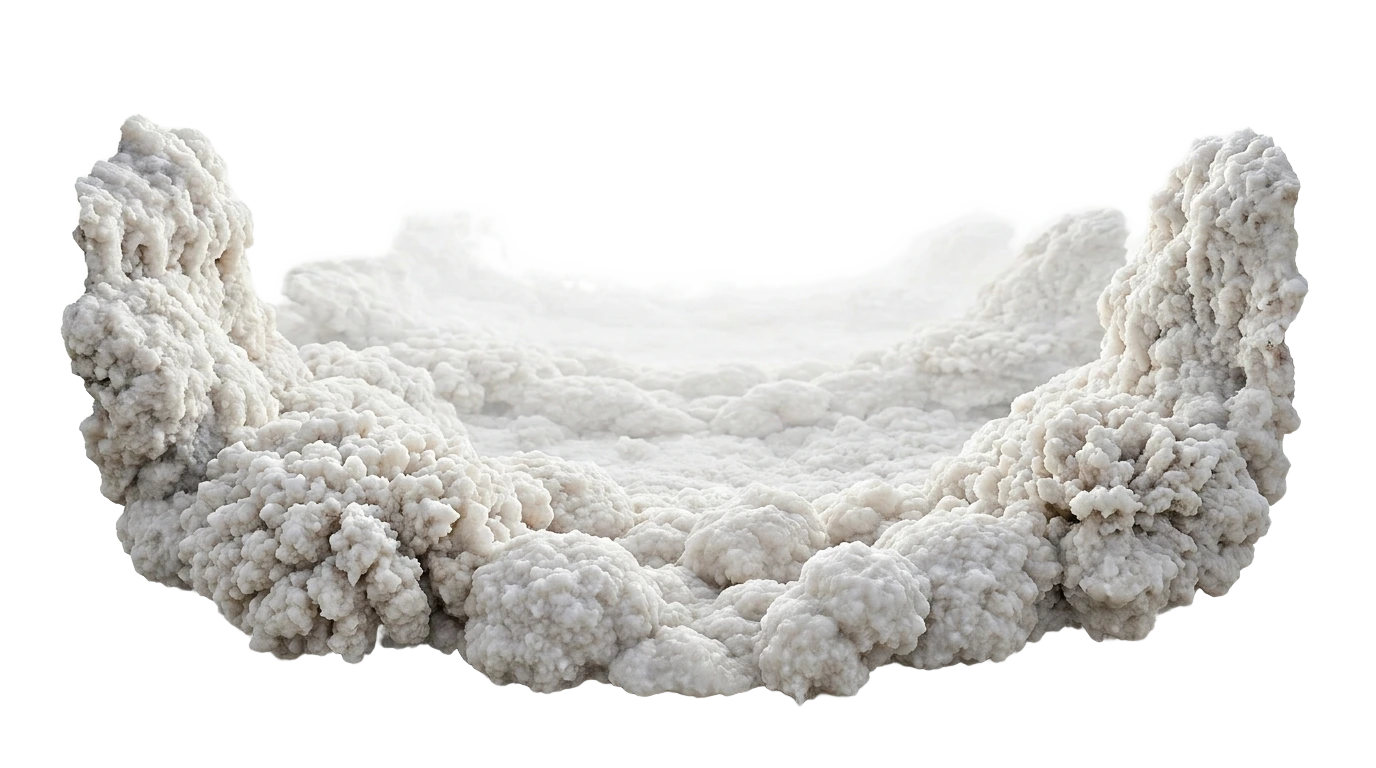
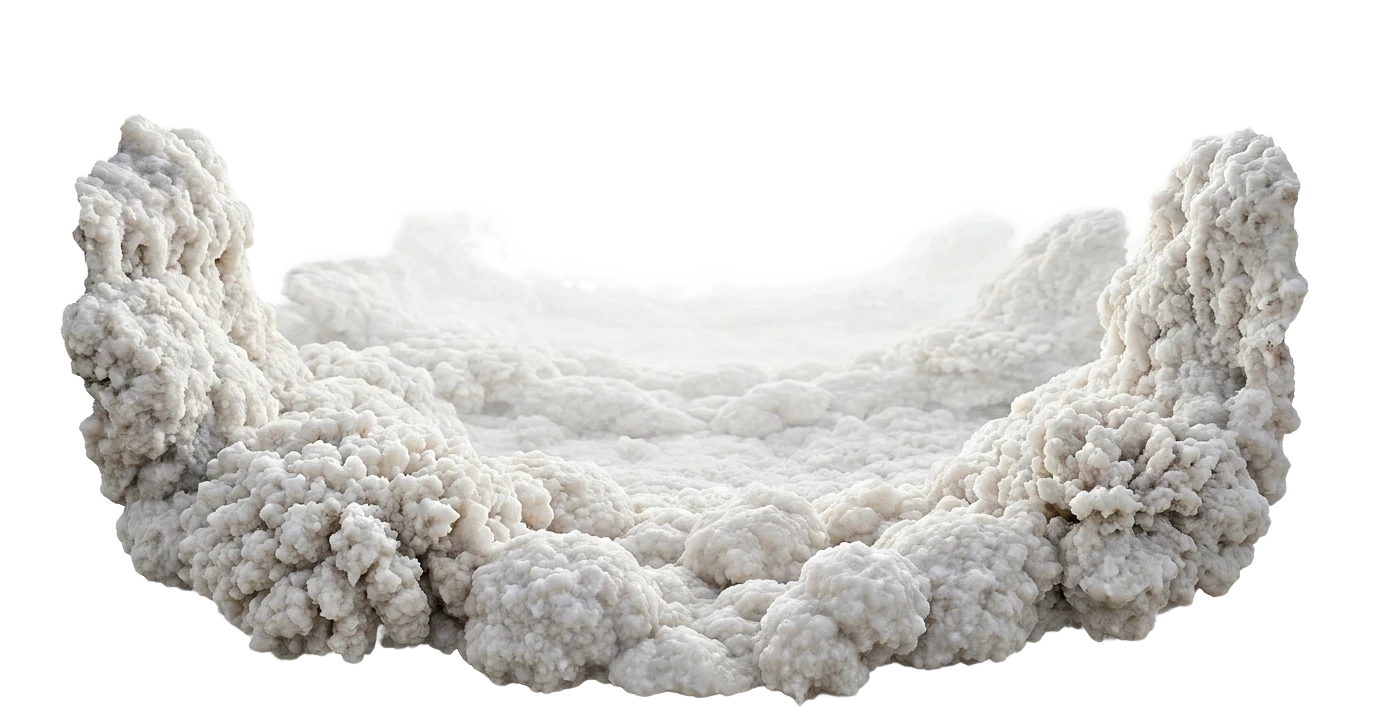
−350m salt: crop transparent bottom margin (kill bottom gap) + white depth gradient in front (lighter toward base)

Changed region(s): [[0.0312, 0.1549, 0.9688, 0.9915], [0.7188, 0.3718, 0.75, 0.4028]]

diff --git a/index.html b/index.html
@@ -71,7 +71,7 @@ body{background:var(--lilac);color:var(--ink);font-family:var(--sans);overflow-x
   background:linear-gradient(to top,#ffffff 0,rgba(255,255,255,.92) 20%,rgba(255,255,255,0) 100%)}
 /* Dead Sea salt formations — a faint, hazy hint under the water (kept subtle, like the distant mountains) */
 #saltLayer{position:fixed;left:0;right:0;bottom:0;height:28%;z-index:6;opacity:0;transition:opacity 1s ease;pointer-events:none}
-#saltLayer .salt-u{position:absolute;left:50%;transform:translateX(-50%);bottom:-1.5%;width:130%;height:auto;display:block;opacity:.92;
+#saltLayer .salt-u{position:absolute;left:50%;transform:translateX(-50%);bottom:-2.5%;width:130%;height:auto;display:block;opacity:.92;
   filter:brightness(1.02) saturate(.95) contrast(1.0);
   -webkit-mask-image:linear-gradient(to bottom,transparent 0,#000 30%,#000 100%);
           mask-image:linear-gradient(to bottom,transparent 0,#000 30%,#000 100%)}
@@ -88,6 +88,11 @@ body{background:var(--lilac);color:var(--ink);font-family:var(--sans);overflow-x
   74%{opacity:var(--op,.5)}
   100%{transform:translate(var(--dx,10px),var(--rise,-46vh)) scale(1.12);opacity:0}}
 @media(prefers-reduced-motion:reduce){.wbub{animation:none;opacity:0}}
+
+/* white depth gradient IN FRONT of the salt — transparent at top, lighter toward the bottom;
+   builds atmospheric depth, softens the busy salt detail at the base, and closes the bottom edge */
+#saltFade{position:fixed;left:0;right:0;bottom:0;height:27%;z-index:7;opacity:0;transition:opacity 1s ease;pointer-events:none;
+  background:linear-gradient(to bottom,rgba(255,255,255,0) 0%,rgba(255,255,255,.22) 42%,rgba(255,255,255,.55) 74%,rgba(255,255,255,.9) 100%)}
 /* water drops floating gently around the tags in the water */
 #dropLayer{position:fixed;top:0;left:0;right:0;height:100svh;z-index:7;pointer-events:none;opacity:0;transition:opacity 1s ease;overflow:hidden}   /* svh-locked: stable frame, no URL-bar jump */
 .drop{position:absolute;aspect-ratio:1;opacity:.7;will-change:transform,scale;
@@ -855,6 +860,7 @@ details p{padding:0 20px 16px;font-size:14.5px;line-height:1.7;color:#4a4460}
 <div id="saltLayer" aria-hidden="true">
   <img class="salt-u" src="assets/sea/salt-u.webp" alt="">
 </div>
+<div id="saltFade" aria-hidden="true"></div>
 <!-- water drops floating gently around the tags in the water -->
 <div id="dropLayer" aria-hidden="true">
   <img class="drop" src="assets/minerals/waterdrop.webp" alt="" style="top:60%;left:32%;width:48px;animation-duration:9s,3.4s;animation-delay:-1s,-0.5s">
@@ -1594,6 +1600,7 @@ function frame(){
   seaScrim.style.opacity=sea?'1':'0';
   bubbleLayer.style.opacity=sea?'1':'0';
   saltLayer.style.opacity=sea?'1':'0';
+  saltFade.style.opacity=sea?'1':'0';
   tagLayer.style.opacity=sea?'1':'0';
   dropLayer.style.opacity=sea?'1':'0';
   if(seaMedia.tagName==='VIDEO'){ if(sea && seaMedia.paused) seaMedia.play().catch(()=>{}); else if(!sea && !seaMedia.paused) seaMedia.pause(); }